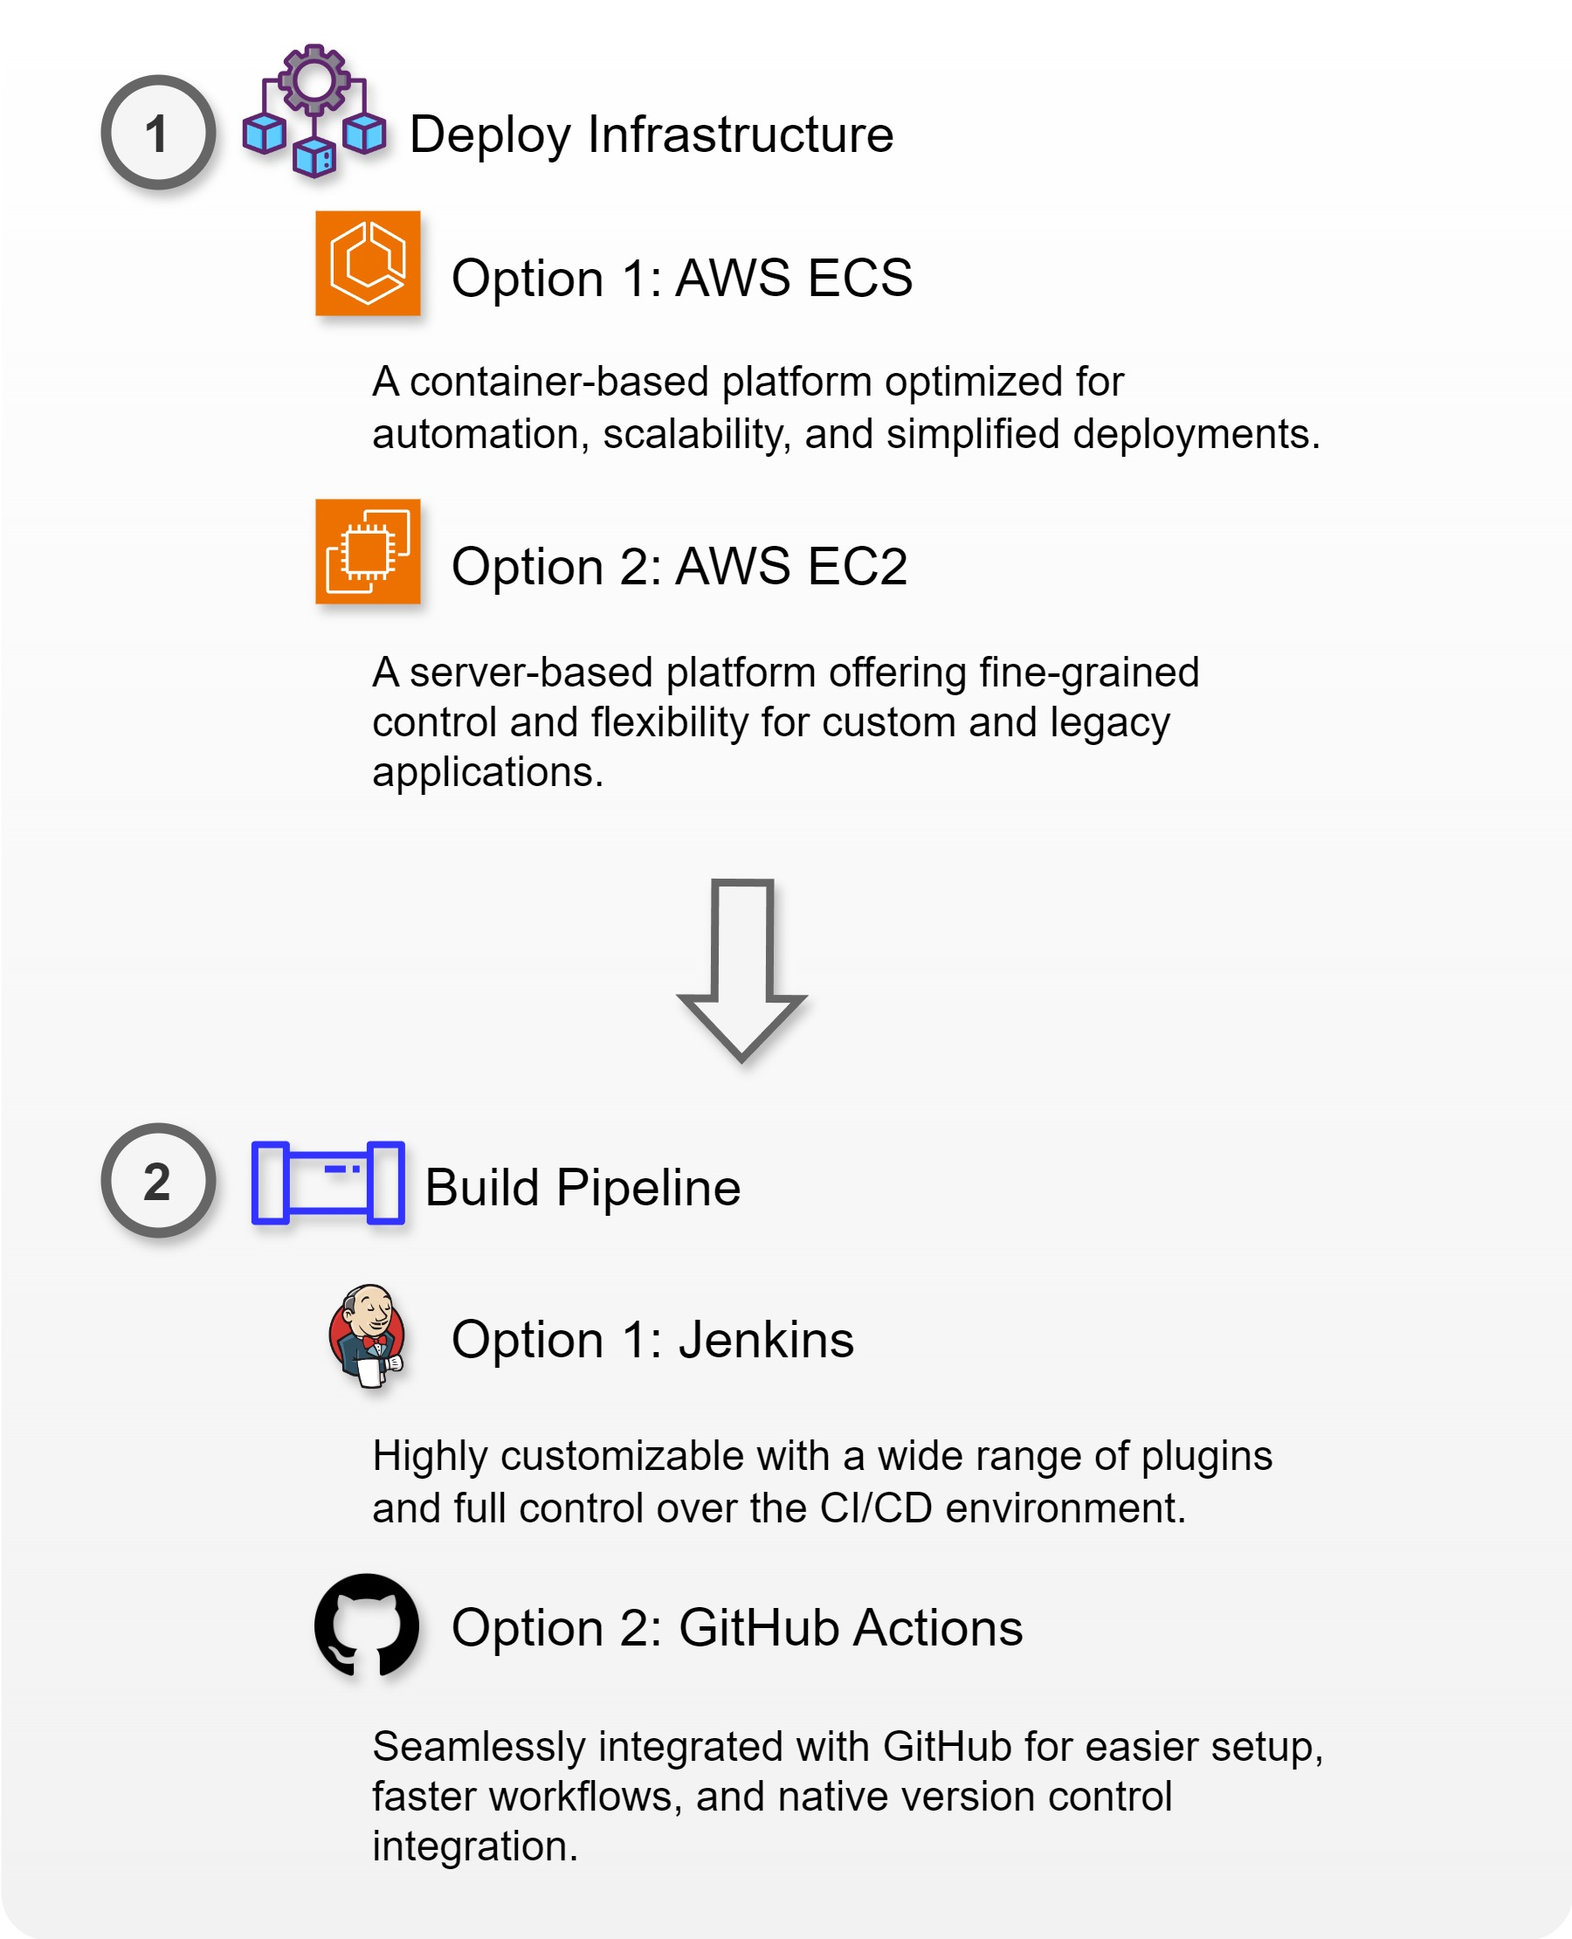
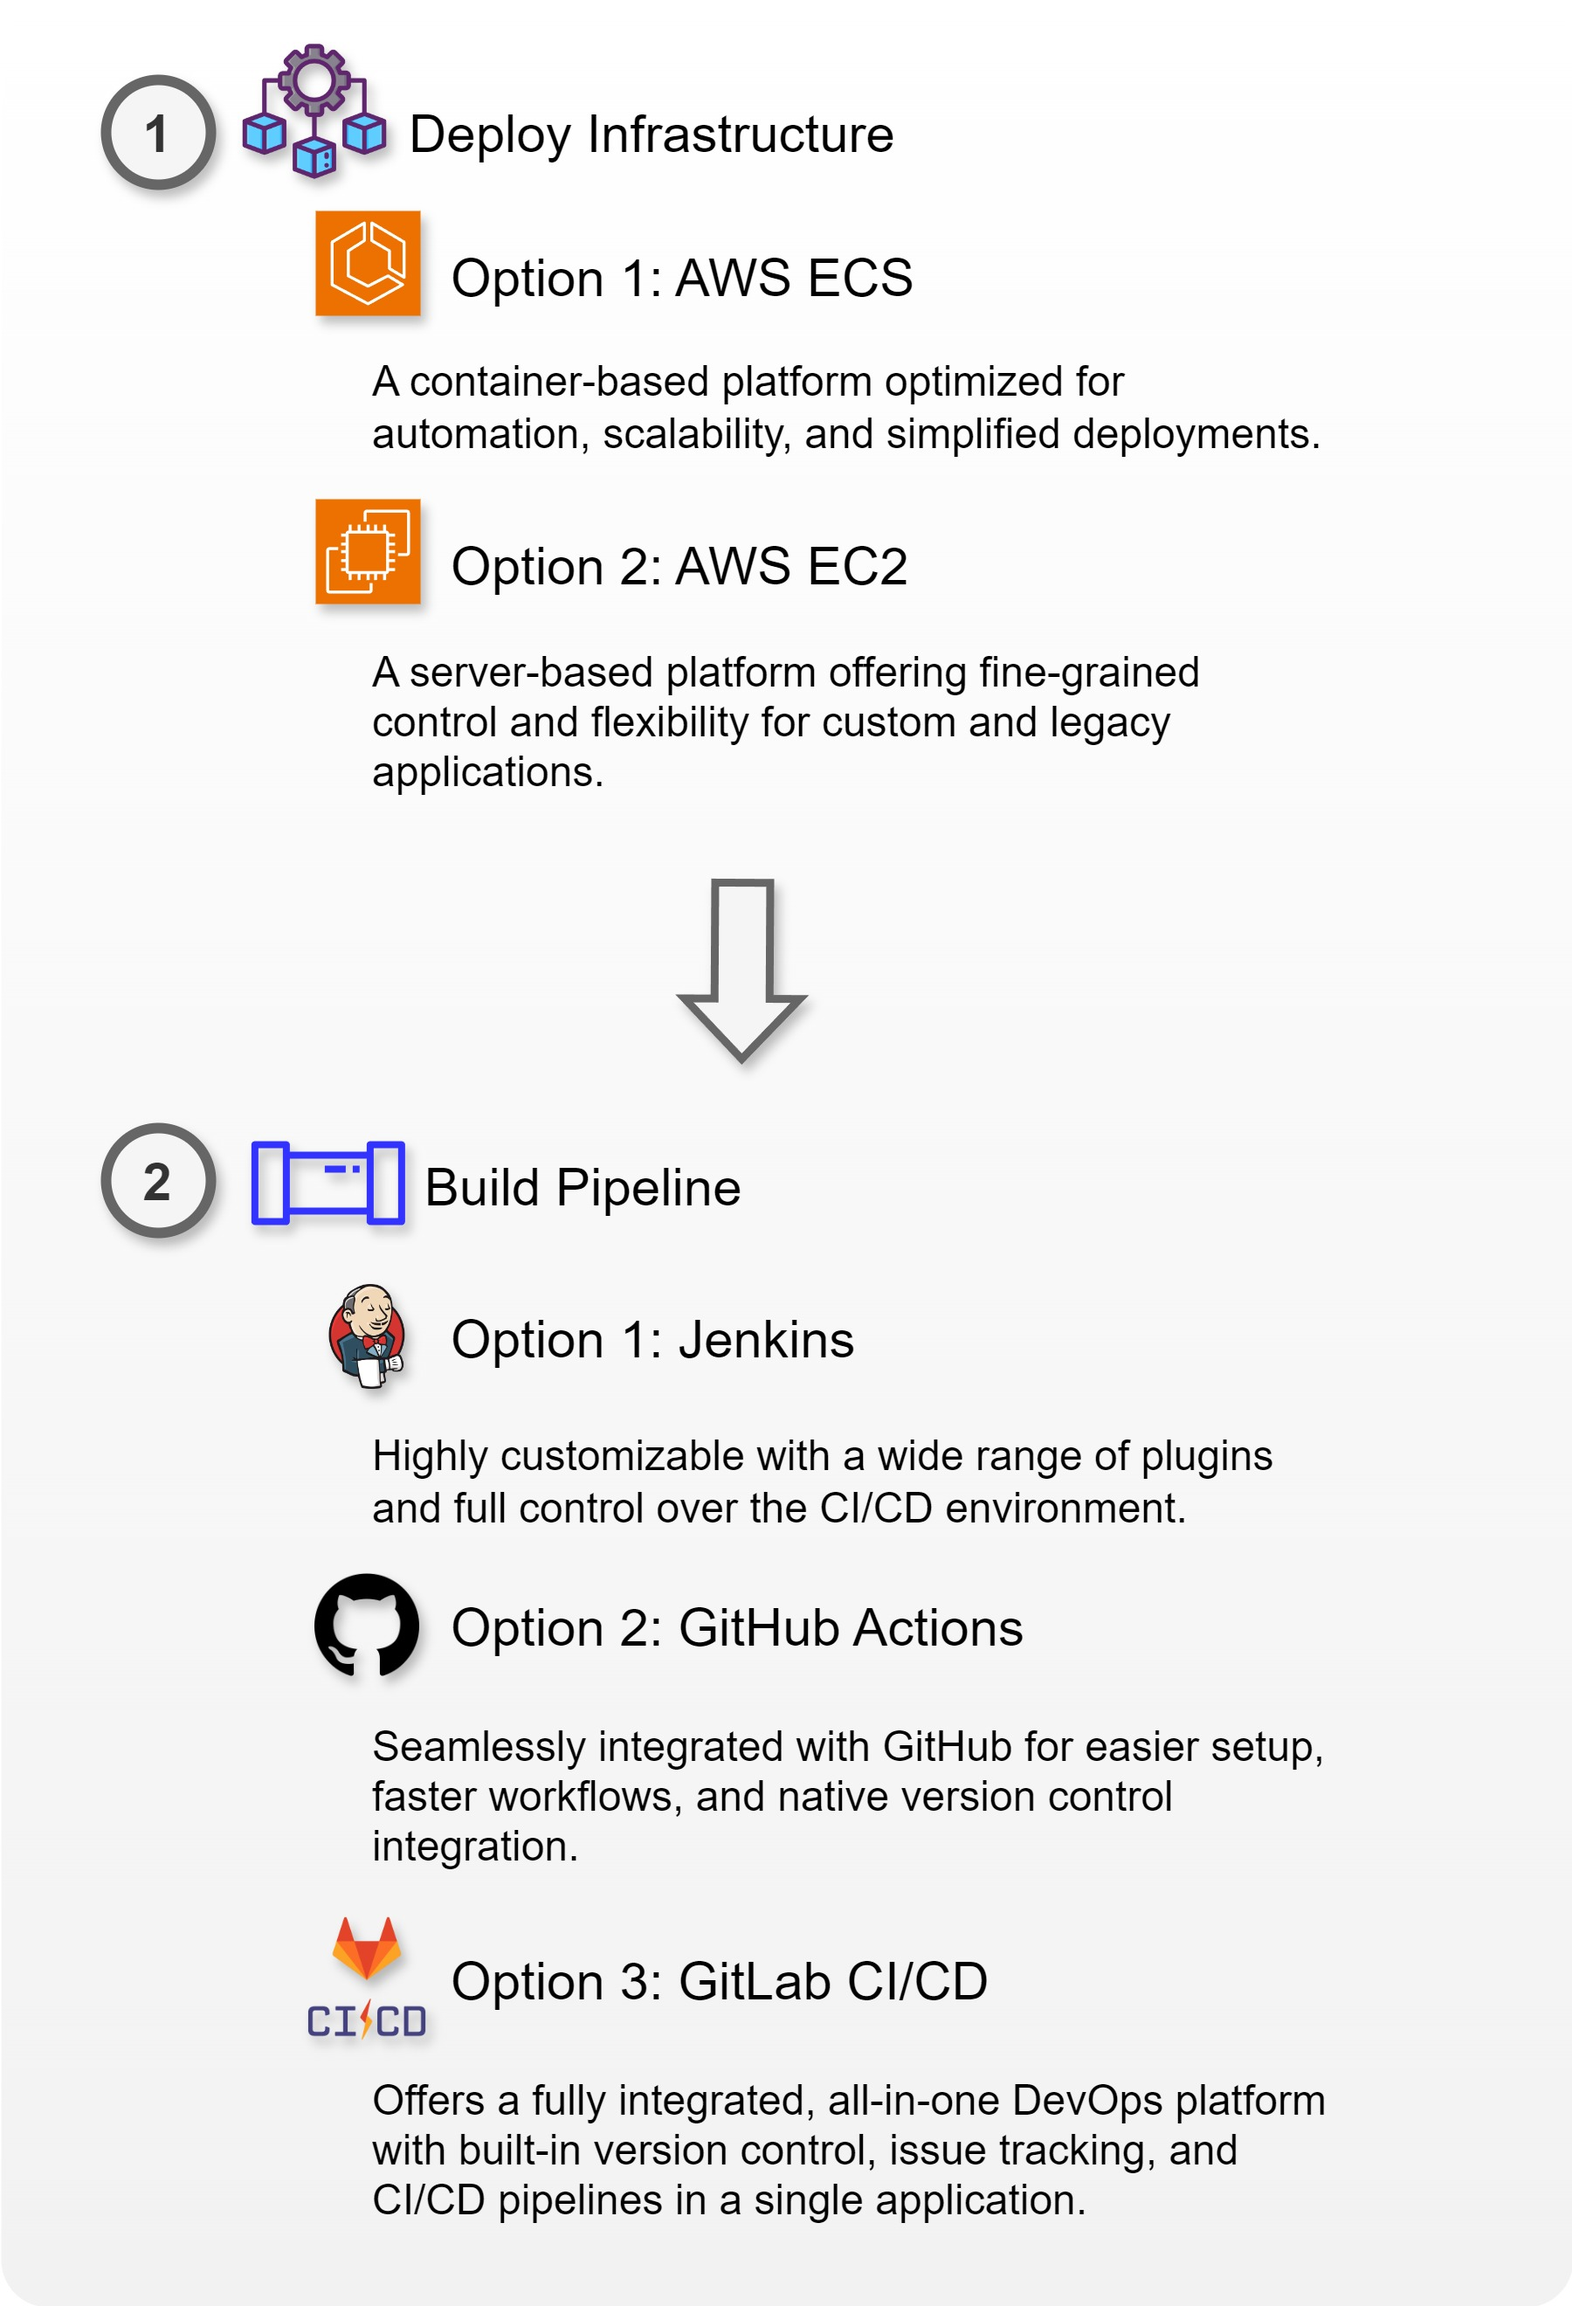
updated gitlab cicd page

Changed region(s): [[0.0622, 0.0, 0.84, 0.9635]]

diff --git a/gitlab-cicd-version.md b/gitlab-cicd-version.md
@@ -4,10 +4,19 @@
 ---
 
 ## Table of Contents
+[1. Create Secrets](#1-create-secrets)  
+[2. Create a Pipeline](#2-create-a-pipeline)  
+[3. SonarQube Code Quality Check](#3-sonarqube-code-quality-check)  
+[4. SonarQube Quality Gate Check](#4-sonarqube-quality-gate-check)  
+[5. Push Artifact to Nexus Repository](#5-push-artifact-to-nexus-repository)  
+[6. Build Docker Image](#6-build-docker-image)  
+[7. Trivy Security Scan](#7-trivy-security-scan)  
+[8. Push to AWS ECR (Elastic Container Registry)](#9-push-to-aws-ecrelastic-container-registry)  
+[9. Deploy To AWS ECS (Elastic Container Service)](#0-deploy-to-aws-ecselastic-container-service)
 
 ---
 
-### Configure Secrets
+### 1. Create Secrets
 1. AWS_ACCESS_KEY_ID
 2. AWS_SECRET_ACCESS_KEY
 3. SONAR_HOST_URL
@@ -19,7 +28,7 @@
 
 ---
 
-### 1. Create a Pipeline
+### 2. Create a Pipeline
 1. Create a pipeline file on project root folder: /.gitlab-ci.yml
 ```
 stages:
@@ -47,7 +56,7 @@ cache:
     - .m2/repository
 ```
 
-### 2. SonarQube Code Quality Check
+### 3. SonarQube Code Quality Check
 ```
 sonarqube-check:
   stage: sonarqube
@@ -60,7 +69,7 @@ sonarqube-check:
   allow_failure: false
 ```
 
-### 3. SonarQube Quality Gate Check
+### 4. SonarQube Quality Gate Check
 ```
 check-quality-gate:
   stage: quality-gate
@@ -73,7 +82,7 @@ check-quality-gate:
     - if [ "$STATUS" != "OK" ]; then echo "Quality Gate failed"; exit 1; fi
 ```
 
-### 4. Push Artifact to Nexus Repository
+### 5. Push Artifact to Nexus Repository
 1. pom.xml 
 2. settings.xml
 ```
@@ -111,7 +120,7 @@ nexus-push:
     MAVEN_PASSWORD: $MAVEN_PASSWORD
 ```
 
-### 5. Build Docker Image
+### 6. Build Docker Image
 ```
 docker_build:
   stage: docker
@@ -124,7 +133,7 @@ docker_build:
     expire_in: 1 hour
 ```
 
-### 6. Trivy Security Scan
+### 7. Trivy Security Scan
 ```
 trivy_scan:
   stage: scan
@@ -142,7 +151,7 @@ trivy_scan:
       - trivy-report.json
 ```
 
-### 7. Push to AWS ECR(Elastic Container Registry)
+### 8. Push to AWS ECR(Elastic Container Registry)
 Create an ECR private repository with name [docker image].
 Use ecr-credential-helper to secure secrets.
 ```
@@ -165,7 +174,7 @@ ecr_push:
     - docker push 088351136602.dkr.ecr.us-east-1.amazonaws.com/$DOCKER_IMAGE:latest
 ```
 
-### 8. Deploy To AWS ECS(Elastic Container Service)
+### 9. Deploy To AWS ECS(Elastic Container Service)
 1. Create a task definition that pulls image from ECR.
 2. Create a ECS service with the created task definition
 3. Force redeploy the ECS service to make it use the latest image.

diff --git a/README.md b/README.md
@@ -12,17 +12,12 @@
 - [2) Deploy Pipeline](#2-deploy-pipeline)
   - [Jenkins version](#jenkins-version)
   - [GitHub Actions version](#github-actions-version)
+  - [GitLab CI/CD version](#gitlab-cicd-version)
 - [3) Set up Monitoring](#4-set-up-monitoring)
   - [Install Prometheus (Port 9090)](#install-prometheus-port-9090)
   - [Install Prometheus - Blackbox Exporter (Port 9115)](#install-prometheus---blackbox-exporter-port-9115)
   - [Install Grafana (Port 3000)](#install-grafana-port-3000)
   - [System performance metrics](#system-performance-metrics)
-
-<br>
-<br>
-
-Credit to jaiswaladi246
-https://youtu.be/NnkUGzaqqOc?si=-5ugADFn6lgBzpK9
 
 ---
 ![Project Introduction](./images/project-introduction.jpg)
@@ -57,6 +52,10 @@ Deploy pipeline using **Jenkins version** or **GitHub Actions version**.
 ## GitHub Actions version
 
 [GitHub Actions version](github-actions-version.md)
+
+## GitLab CI/CD version
+
+[GitLab CI/CD version](gitlab-cicd-version.md)
 
 ---
 
